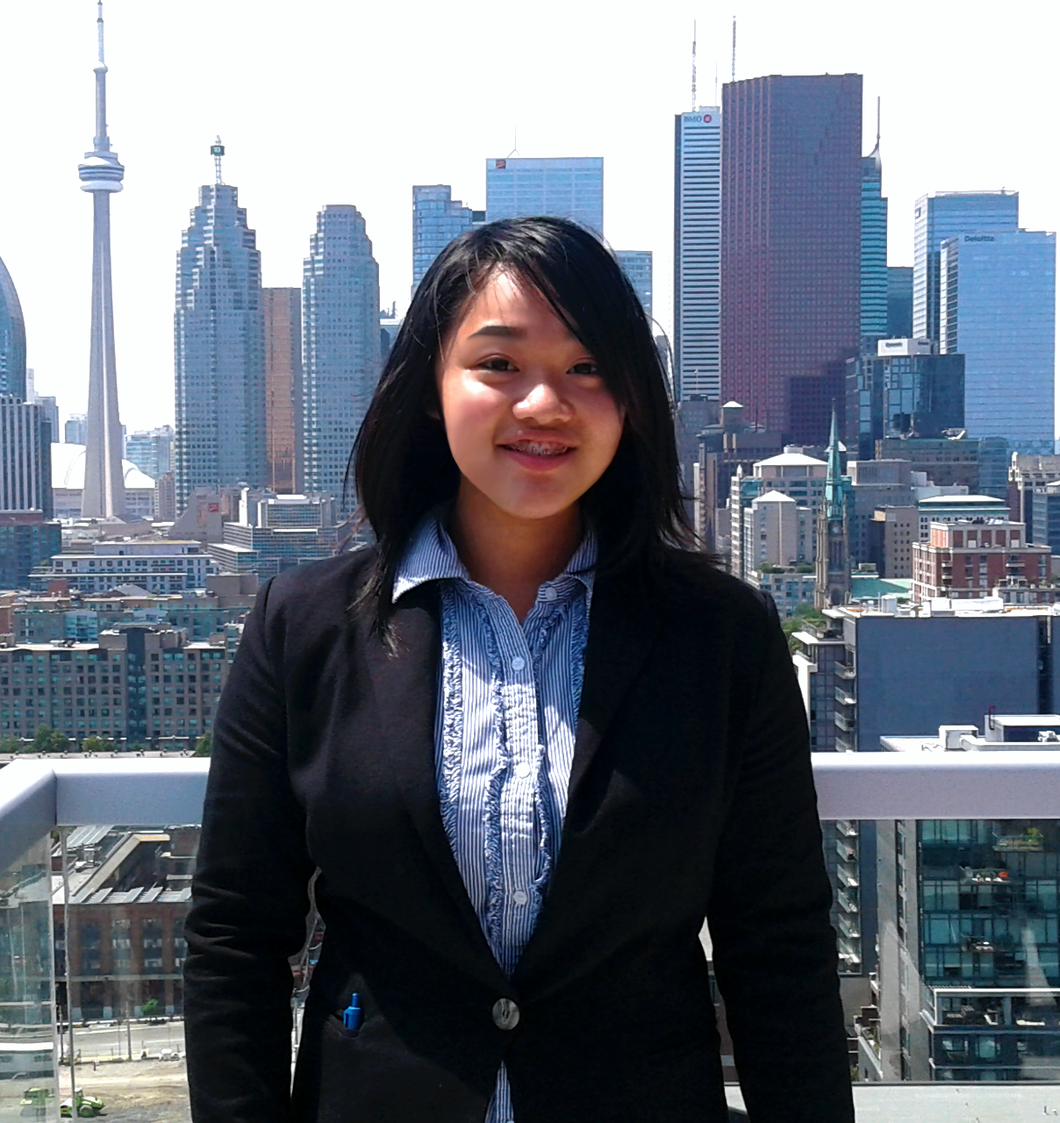
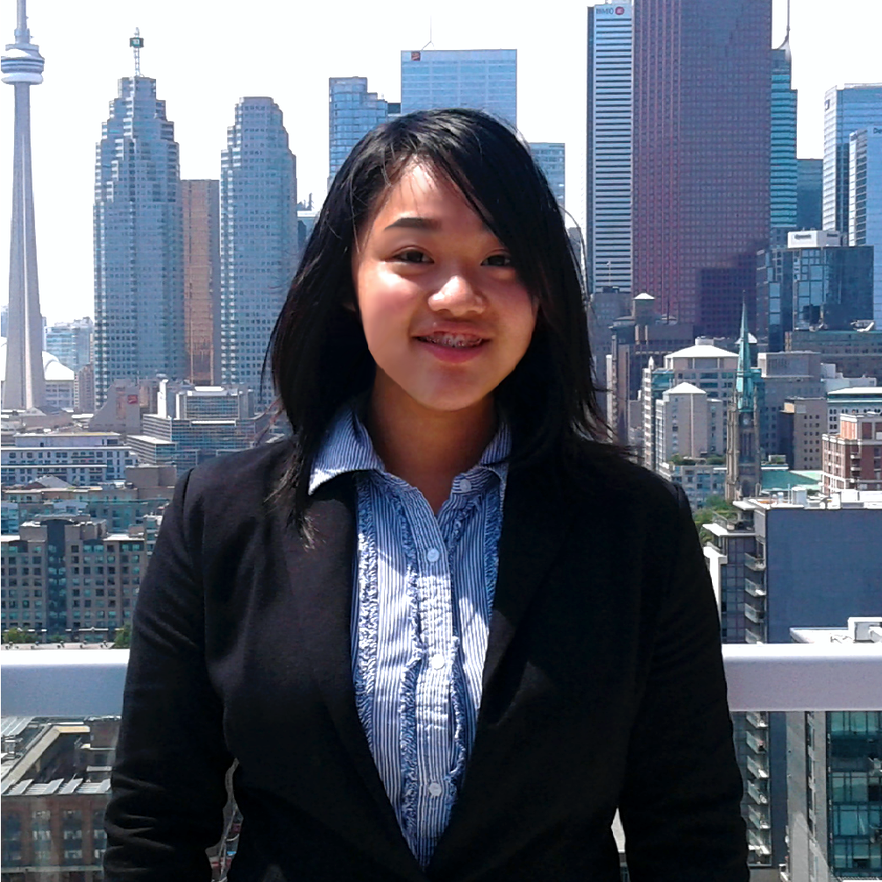
fixed navbar and added team photos

diff --git a/about-us.html b/about-us.html
@@ -70,56 +70,6 @@
       </div>
     </div>
   </nav>
-  <nav class="navbar navbar-expand-md fixed-top bg-light navbar-light">
-    <div class="container">
-      <a href="index.html" class="navbar-brand d-flex align-items-center"><img class="img-fluid inline w-10 w-25" src="assets/logo.jpg" style="	max-width: 9em;	border-top-left-radius: 10px;	border-bottom-left-radius: 10px;	border-top-right-radius: 10px;	border-bottom-right-radius: 10px;"></a>
-      <button class="navbar-toggler navbar-toggler-right" type="button" data-toggle="collapse" data-target="#navbar3SupportedContent" aria-controls="navbar3SupportedContent" aria-expanded="false" aria-label="Toggle navigation" style=""> <span class="navbar-toggler-icon"></span> </button>
-      <div class="collapse navbar-collapse text-center justify-content-center" id="navbar3SupportedContent">
-        <ul class="navbar-nav text-dark" style="">
-          <li class="nav-item mx-3">
-            <a class="nav-link" href="index.html"><b class="text-muted">Home</b></a>
-          </li>
-          <li class="nav-item mx-2">
-            <a class="nav-link" href="writing-contest.html"><b class="text-muted">Writing Contest</b></a>
-          </li>
-          <li class="nav-item mx-2">
-            <a class="nav-link" href="webinar-series.html"><b class="text-muted">Webinar Series</b></a>
-          </li>
-          <li class="nav-item mx-2">
-            <a class="nav-link" href="about-us.html"><b class="text-primary">About Us</b></a>
-          </li>
-          <li class="nav-item mx-2">
-            <a class="nav-link" href="contact.html"><b class="text-muted">Contact</b></a>
-          </li>
-        </ul>
-      </div>
-    </div>
-  </nav>
-  <nav class="navbar navbar-expand-md fixed-top bg-light navbar-light">
-    <div class="container">
-      <a href="index.html" class="navbar-brand d-flex align-items-center"><img class="img-fluid inline w-10 w-25" src="assets/logo.jpg" style="	max-width: 9em;	border-top-left-radius: 10px;	border-bottom-left-radius: 10px;	border-top-right-radius: 10px;	border-bottom-right-radius: 10px;"></a>
-      <button class="navbar-toggler navbar-toggler-right" type="button" data-toggle="collapse" data-target="#navbar3SupportedContent" aria-controls="navbar3SupportedContent" aria-expanded="false" aria-label="Toggle navigation" style=""> <span class="navbar-toggler-icon"></span> </button>
-      <div class="collapse navbar-collapse text-center justify-content-center" id="navbar3SupportedContent">
-        <ul class="navbar-nav text-dark" style="">
-          <li class="nav-item mx-3">
-            <a class="nav-link" href="index.html"><b class="text-muted">Home</b></a>
-          </li>
-          <li class="nav-item mx-2">
-            <a class="nav-link" href="writing-contest.html"><b class="text-muted">Writing Contest</b></a>
-          </li>
-          <li class="nav-item mx-2">
-            <a class="nav-link" href="webinar-series.html"><b class="text-muted">Webinar Series</b></a>
-          </li>
-          <li class="nav-item mx-2">
-            <a class="nav-link" href="about-us.html"><b class="text-primary">About Us</b></a>
-          </li>
-          <li class="nav-item mx-2">
-            <a class="nav-link" href="contact.html"><b class="text-muted">Contact</b></a>
-          </li>
-        </ul>
-      </div>
-    </div>
-  </nav>
   <div class="py-5 text-center" style="background-image: url(&quot;assets/butterfly-background.png&quot;); background-position: left top; background-size: 100%; background-repeat: repeat;">
     <div class="container">
       <div class="row">
@@ -128,68 +78,68 @@
         </div>
       </div>
       <div class="row mt-4">
-        <div class="mx-auto col-6 col-md-3 p-3 w3-animate-opacity rounded" style="	background-image: linear-gradient(to bottom, rgba(240, 240, 240, 2), rgba(240, 240, 240, 1));	background-position: top left;	background-size: 100%;	background-repeat: repeat;	box-shadow: 2px 2px 2px 2px grey;"> <img class="img-fluid d-block mb-3 mx-auto rounded-circle" src="assets/logo.jpg" width="200">
+        <div class="mx-auto col-6 col-md-3 p-3 w3-animate-opacity rounded" style="	background-image: linear-gradient(to bottom, rgba(240, 240, 240, 2), rgba(240, 240, 240, 1));	background-position: top left;	background-size: 100%;	background-repeat: repeat;	box-shadow: 2px 2px 2px 2px grey;"> <img class="img-fluid d-block mb-3 mx-auto rounded-circle" src="assets/logo.jpg" width="200" height="200">
           <h4>Athena Zhuang</h4>
           <p class="mb-3">CEO</p>
           <p class="mb-0">Socials</p>
         </div>
-        <div class="mx-auto col-6 col-md-3 p-3 w3-animate-opacity rounded" style="	background-image: linear-gradient(to bottom, rgba(240, 240, 240, 2), rgba(240, 240, 240, 1));	background-position: top left;	background-size: 100%;	background-repeat: repeat;	box-shadow: 2px 2px 2px 2px grey;"> <img class="img-fluid d-block mb-3 mx-auto rounded-circle" src="assets/logo.jpg" width="200">
+        <div class="mx-auto col-6 col-md-3 p-3 w3-animate-opacity rounded" style="	background-image: linear-gradient(to bottom, rgba(240, 240, 240, 2), rgba(240, 240, 240, 1));	background-position: top left;	background-size: 100%;	background-repeat: repeat;	box-shadow: 2px 2px 2px 2px grey;"> <img class="img-fluid d-block mb-3 mx-auto rounded-circle" src="assets/jack.jpg" width="200" height="200">
           <h4>Jack Zhu</h4>
           <p class="mb-3">COO</p>
           <p class="mb-0">Socials</p>
         </div>
-        <div class="mx-auto col-6 col-md-3 p-3 w3-animate-opacity rounded" style="	background-image: linear-gradient(to bottom, rgba(240, 240, 240, 2), rgba(240, 240, 240, 1));	background-position: top left;	background-size: 100%;	background-repeat: repeat;	box-shadow: 2px 2px 2px 2px grey;"> <img class="img-fluid d-block mb-3 mx-auto rounded-circle" src="assets/logo.jpg" width="200">
+        <div class="mx-auto col-6 col-md-3 p-3 w3-animate-opacity rounded" style="	background-image: linear-gradient(to bottom, rgba(240, 240, 240, 2), rgba(240, 240, 240, 1));	background-position: top left;	background-size: 100%;	background-repeat: repeat;	box-shadow: 2px 2px 2px 2px grey;"> <img class="img-fluid d-block mb-3 mx-auto rounded-circle" src="assets/tony.jpg" width="200" height="200">
           <h4>Tony Wu</h4>
           <p class="mb-3">Head Consultant</p>
           <p class="mb-0"> Socials</p>
         </div>
       </div>
       <div class="row mt-4">
-        <div class="mx-auto col-6 col-md-3 p-3 w3-animate-opacity rounded" style="	background-image: linear-gradient(to bottom, rgba(240, 240, 240, 2), rgba(240, 240, 240, 1));	background-position: top left;	background-size: 100%;	background-repeat: repeat;	box-shadow: 2px 2px 2px 2px grey;"> <img class="img-fluid d-block mb-3 mx-auto rounded-circle" src="assets/logo.jpg" width="200">
+        <div class="mx-auto col-6 col-md-3 p-3 w3-animate-opacity rounded" style="background-image: linear-gradient(to bottom, rgba(240, 240, 240, 2), rgba(240, 240, 240, 1));	background-position: top left;	background-repeat: repeat;	box-shadow: 2px 2px 2px 2px grey;"> <img class="img-fluid d-block mb-3 mx-auto rounded-circle" src="assets/rickie.jpg" width="200" style="">
           <h4><b>Rickie Huang</b></h4>
           <p class="mb-3">CFO</p>
           <p class="mb-0">Socials</p>
         </div>
-        <div class="mx-auto col-6 col-md-3 p-3 w3-animate-opacity rounded" style="	background-image: linear-gradient(to bottom, rgba(240, 240, 240, 2), rgba(240, 240, 240, 1));	background-position: top left;	background-size: 100%;	background-repeat: repeat;	box-shadow: 2px 2px 2px 2px grey;"> <img class="img-fluid d-block mb-3 mx-auto rounded-circle" src="assets/logo.jpg" width="200">
+        <div class="mx-auto col-6 col-md-3 p-3 w3-animate-opacity rounded" style="	background-image: linear-gradient(to bottom, rgba(240, 240, 240, 2), rgba(240, 240, 240, 1));	background-position: top left;	background-size: 100%;	background-repeat: repeat;	box-shadow: 2px 2px 2px 2px grey;"> <img class="img-fluid d-block mb-3 mx-auto rounded-circle" src="assets/elaine.jpg" width="200" height="200">
           <h4><b>Elaine Jiang</b></h4>
           <p class="mb-3">Secretary</p>
           <p class="mb-0">Socials</p>
         </div>
-        <div class="mx-auto col-6 col-md-3 p-3 w3-animate-opacity rounded" style="	background-image: linear-gradient(to bottom, rgba(240, 240, 240, 2), rgba(240, 240, 240, 1));	background-position: top left;	background-size: 100%;	background-repeat: repeat;	box-shadow: 2px 2px 2px 2px grey;"> <img class="img-fluid d-block mb-3 mx-auto rounded-circle" src="assets/logo.jpg" width="200">
+        <div class="mx-auto col-6 col-md-3 p-3 w3-animate-opacity rounded" style="	background-image: linear-gradient(to bottom, rgba(240, 240, 240, 2), rgba(240, 240, 240, 1));	background-position: top left;	background-size: 100%;	background-repeat: repeat;	box-shadow: 2px 2px 2px 2px grey;"> <img class="img-fluid d-block mb-3 mx-auto rounded-circle" src="assets/logo.jpg" width="200" height="200">
           <h4><b>Caleb Smolenaars</b></h4>
           <p class="mb-3">Ethics Officer</p>
           <p class="mb-0"> Socials</p>
         </div>
       </div>
       <div class="row mt-4">
-        <div class="mx-auto col-6 col-md-3 p-3 w3-animate-opacity rounded" style="	background-image: linear-gradient(to bottom, rgba(240, 240, 240, 2), rgba(240, 240, 240, 1));	background-position: top left;	background-size: 100%;	background-repeat: repeat;	box-shadow: 2px 2px 2px 2px grey;"> <img class="img-fluid d-block mb-3 mx-auto rounded-circle" src="assets/logo.jpg" width="200">
+        <div class="mx-auto col-6 col-md-3 p-3 w3-animate-opacity rounded" style="	background-image: linear-gradient(to bottom, rgba(240, 240, 240, 2), rgba(240, 240, 240, 1));	background-position: top left;	background-size: 100%;	background-repeat: repeat;	box-shadow: 2px 2px 2px 2px grey;"> <img class="img-fluid d-block mb-3 mx-auto rounded-circle" src="assets/logo.jpg" width="200" height="200">
           <h4><b>Raihaana Rehmtulla</b></h4>
           <p class="mb-3">HR Manager</p>
           <p class="mb-0">Socials</p>
         </div>
-        <div class="mx-auto col-6 col-md-3 p-3 w3-animate-opacity rounded" style="	background-image: linear-gradient(to bottom, rgba(240, 240, 240, 2), rgba(240, 240, 240, 1));	background-position: top left;	background-size: 100%;	background-repeat: repeat;	box-shadow: 2px 2px 2px 2px grey;"> <img class="img-fluid d-block mb-3 mx-auto rounded-circle" src="assets/logo.jpg" width="200">
+        <div class="mx-auto col-6 col-md-3 p-3 w3-animate-opacity rounded" style="	background-image: linear-gradient(to bottom, rgba(240, 240, 240, 2), rgba(240, 240, 240, 1));	background-position: top left;	background-size: 100%;	background-repeat: repeat;	box-shadow: 2px 2px 2px 2px grey;"> <img class="img-fluid d-block mb-3 mx-auto rounded-circle" src="assets/logo.jpg" width="200" height="200">
           <h4><b>Amanda Chang</b></h4>
           <p class="mb-3">Marketing Manager</p>
           <p class="mb-0">Socials</p>
         </div>
-        <div class="mx-auto col-6 col-md-3 p-3 w3-animate-opacity rounded" style="	background-image: linear-gradient(to bottom, rgba(240, 240, 240, 2), rgba(240, 240, 240, 1));	background-position: top left;	background-size: 100%;	background-repeat: repeat;	box-shadow: 2px 2px 2px 2px grey;"> <img class="img-fluid d-block mb-3 mx-auto rounded-circle" src="assets/logo.jpg" width="200">
+        <div class="mx-auto col-6 col-md-3 p-3 w3-animate-opacity rounded" style="	background-image: linear-gradient(to bottom, rgba(240, 240, 240, 2), rgba(240, 240, 240, 1));	background-position: top left;	background-size: 100%;	background-repeat: repeat;	box-shadow: 2px 2px 2px 2px grey;"> <img class="img-fluid d-block mb-3 mx-auto rounded-circle" src="assets/logo.jpg" width="200" height="200">
           <h4 contenteditable="true"><b>Angaran Nithiyanandan</b></h4>
           <p class="mb-3">PR Manager</p>
           <p class="mb-0"> Socials</p>
         </div>
       </div>
       <div class="row mt-4">
-        <div class="mx-auto col-6 col-md-3 p-3 w3-animate-opacity rounded" style="	background-image: linear-gradient(to bottom, rgba(240, 240, 240, 2), rgba(240, 240, 240, 1));	background-position: top left;	background-size: 100%;	background-repeat: repeat;	box-shadow: 2px 2px 2px 2px grey;"> <img class="img-fluid d-block mb-3 mx-auto rounded-circle" src="assets/logo.jpg" width="200">
+        <div class="mx-auto col-6 col-md-3 p-3 w3-animate-opacity rounded" style="	background-image: linear-gradient(to bottom, rgba(240, 240, 240, 2), rgba(240, 240, 240, 1));	background-position: top left;	background-size: 100%;	background-repeat: repeat;	box-shadow: 2px 2px 2px 2px grey;"> <img class="img-fluid d-block mb-3 mx-auto rounded-circle" src="assets/logo.jpg" width="200" height="200">  
           <h4><b>Paul Zhang</b></h4>
           <p class="mb-3">Partnerships Manager</p>
           <p class="mb-0" contenteditable="true">Socials</p>
         </div>
-        <div class="mx-auto col-6 col-md-3 p-3 w3-animate-opacity rounded" style="	background-image: linear-gradient(to bottom, rgba(240, 240, 240, 2), rgba(240, 240, 240, 1));	background-position: top left;	background-size: 100%;	background-repeat: repeat;	box-shadow: 2px 2px 2px 2px grey;"> <img class="img-fluid d-block mb-3 mx-auto rounded-circle" src="assets/logo.jpg" width="200">
+        <div class="mx-auto col-6 col-md-3 p-3 w3-animate-opacity rounded" style="	background-image: linear-gradient(to bottom, rgba(240, 240, 240, 2), rgba(240, 240, 240, 1));	background-position: top left;	background-size: 100%;	background-repeat: repeat;	box-shadow: 2px 2px 2px 2px grey;"> <img class="img-fluid d-block mb-3 mx-auto rounded-circle" src="assets/sammie.jpg" width="200" height="200">
           <h4 contenteditable="true"><b>Sammie He</b></h4>
           <p class="mb-3">Graphic Designer</p>
           <p class="mb-0">Socials</p>
         </div>
-        <div class="mx-auto col-6 col-md-3 p-3 w3-animate-opacity rounded" style="	background-image: linear-gradient(to bottom, rgba(240, 240, 240, 2), rgba(240, 240, 240, 1));	background-position: top left;	background-size: 100%;	background-repeat: repeat;	box-shadow: 2px 2px 2px 2px grey;"> <img class="img-fluid d-block mb-3 mx-auto rounded-circle" src="assets/logo.jpg" width="200">
+        <div class="mx-auto col-6 col-md-3 p-3 w3-animate-opacity rounded" style="	background-image: linear-gradient(to bottom, rgba(240, 240, 240, 2), rgba(240, 240, 240, 1));	background-position: top left;	background-size: 100%;	background-repeat: repeat;	box-shadow: 2px 2px 2px 2px grey;"> <img class="img-fluid d-block mb-3 mx-auto rounded-circle" src="assets/amanda.png" width="200" height="200">
           <h4><b>Amanda Yu</b></h4>
           <p class="mb-3">Website Designer</p>
           <p class="mb-0"> Socials</p>

diff --git a/index.html b/index.html
@@ -45,12 +45,37 @@
       </div>
     </div>
   </nav>
+  <nav class="navbar navbar-expand-md fixed-top bg-light navbar-light">
+    <div class="container">
+      <a href="index.html" class="navbar-brand d-flex align-items-center"><img class="img-fluid inline w-10 w-25" src="assets/logo.jpg" style="	max-width: 9em;	border-top-left-radius: 10px;	border-bottom-left-radius: 10px;	border-top-right-radius: 10px;	border-bottom-right-radius: 10px;"></a>
+      <button class="navbar-toggler navbar-toggler-right" type="button" data-toggle="collapse" data-target="#navbar3SupportedContent" aria-controls="navbar3SupportedContent" aria-expanded="false" aria-label="Toggle navigation" style=""> <span class="navbar-toggler-icon"></span> </button>
+      <div class="collapse navbar-collapse text-center justify-content-center" id="navbar3SupportedContent">
+        <ul class="navbar-nav text-dark">
+          <li class="nav-item mx-3">
+            <a class="nav-link text-light" href="index.html"><b class="text-primary">Home</b></a>
+          </li>
+          <li class="nav-item mx-2">
+            <a class="nav-link" href="writing-contest.html"><b class="text-muted" id="nav-title">Writing Contest</b></a>
+          </li>
+          <li class="nav-item mx-2">
+            <a class="nav-link" href="webinar-series.html"><b class="text-muted " id="nav-title">Webinar Series</b></a>
+          </li>
+          <li class="nav-item mx-2">
+            <a class="nav-link" href="about-us.html"><b class="text-muted" id="nav-title">About Us</b></a>
+          </li>
+          <li class="nav-item mx-2">
+            <a class="nav-link" href="contact.html"><b class="text-muted" id="nav-title">Contact</b></a>
+          </li>
+        </ul>
+      </div>
+    </div>
+  </nav>
   <!-- Cover -->
   <div class="align-items-center d-flex cover section-aquamarine w-100 pb-3 pt-5" style="background-image: url(&quot;assets/restaurant/cover_light.jpg&quot;); opacity: 0.9;">
     <div class="container">
       <div class="row">
         <div class="col-md-12">
-          <h1 class="display-3" style="font-family: 'Merriweather';">PREPosition Org<img class="img-fluid inline w-10 w-25" src="assets/butterfly-png-29.png" style="max-width: 9em; margin-left: 40px;"></h1>
+          <h1 class="display-3" style="font-family: 'Merriweather';">PREPosition<img class="img-fluid inline w-10 w-25" src="assets/butterfly-png-29.png" style="max-width: 9em; margin-left: 40px;"></h1>
         </div>
       </div>
       <div class="row">
@@ -64,12 +89,12 @@
   <div class="py-4" style="background-image: url(&quot;assets/restaurant/cover_light_3.jpg&quot;);">
     <div class="container">
       <div class="row my-5 bg-primary">
-        <div class="bg-secondary col-md-6 h-75 px-4 pt-3">
+        <div class="bg-secondary col-md-6 h-75 px-4 pt-3 pb-4">
           <p class="m-0 mt-3 pl-1">Our story</p>
           <h1 class="pl-1 mt-1" contenteditable="true">Who We Are <img class="img-fluid inline w-7 w-25" src="assets/PREPbutterfly.PNG" style="	max-width: 50px;"></h1>
-          <p class="pl-1 my-2" style="">PREPosition is a student-run initiative that is dedicated to helping communities grow, while allowing youth to be a part of it. As a writing organization, we hope to inspire teens to develop innovative solutions for the future. This is done through a series of webinars and contests, where panels of highly-qualified professionals and university students speak about their experiences. They also judge and provide feedback for their younger peers during these events. Our objective is to raise money and increase transparency in the perspectives of different persons. Initiated by a group of student leaders, we ensure that youth are given the chances to express their ideas, while also losing ignorance. Change is coming; and we are PREPared for it. </p>
+          <p class="pl-1 my-2">PREPosition is a student-run initiative that is dedicated to helping communities grow, while allowing youth to be a part of it. As a writing organization, we hope to inspire teens to develop innovative solutions for the future. This is done through a series of webinars and contests, where panels of highly-qualified professionals and university students speak about their experiences. They also judge and provide feedback for their younger peers during these events. Our objective is to raise money and increase transparency in the perspectives of different persons. Initiated by a group of student leaders, we ensure that youth are given the chances to express their ideas, while also losing ignorance. Change is coming; and we are PREPared for it. </p>
         </div>
-        <div class="d-none d-md-block col-md-6 pr-4 bg-secondary" style="">
+        <div class="d-none d-md-block col-md-6 pr-4 bg-secondary">
           <img class="img-fluid d-block mt-5 w-100 pt-3 w3-animate-opacity" src="assets/restaurant/chef_light.jpg"> </div>
       </div>
     </div>
@@ -77,7 +102,7 @@
   <div class="text-white pb-5 pt-3" style="background-image: linear-gradient(to bottom, rgba(0, 0, 0, .75), rgba(0, 0, 0, .75)), url(https://static.pingendo.com/cover-bubble-dark.svg);  background-position: center center, center center;  background-size: cover, cover;  background-repeat: repeat, repeat;">
     <div class="container">
       <div class="row">
-        <div class="p-0 col-lg-6" style="">
+        <div class="p-0 col-lg-6 mb-2">
           <img class="img-fluid d-block mt-4 w3-animate-opacity" src="assets/covid.png">
         </div>
         <div class="p-5 d-flex flex-column justify-content-center col-lg-6">
@@ -87,7 +112,7 @@
       </div>
     </div>
   </div>
-  <div class="py-5 bg-light" style="">
+  <div class="py-5 bg-light">
     <div class="container">
       <div class="row">
         <div class="col-md-12">

diff --git a/contact.html b/contact.html
@@ -45,6 +45,31 @@
       </div>
     </div>
   </nav>
+  <nav class="navbar navbar-expand-md fixed-top bg-light navbar-light">
+    <div class="container">
+      <a href="index.html" class="navbar-brand d-flex align-items-center"><img class="img-fluid inline w-10 w-25" src="assets/logo.jpg" style="	max-width: 9em;	border-top-left-radius: 10px;	border-bottom-left-radius: 10px;	border-top-right-radius: 10px;	border-bottom-right-radius: 10px;"></a>
+      <button class="navbar-toggler navbar-toggler-right" type="button" data-toggle="collapse" data-target="#navbar3SupportedContent" aria-controls="navbar3SupportedContent" aria-expanded="false" aria-label="Toggle navigation" style=""> <span class="navbar-toggler-icon"></span> </button>
+      <div class="collapse navbar-collapse text-center justify-content-center" id="navbar3SupportedContent">
+        <ul class="navbar-nav text-dark" style="">
+          <li class="nav-item mx-3">
+            <a class="nav-link" href="index.html"><b class="text-muted">Home</b></a>
+          </li>
+          <li class="nav-item mx-2">
+            <a class="nav-link" href="writing-contest.html"><b class="text-muted">Writing Contest</b></a>
+          </li>
+          <li class="nav-item mx-2">
+            <a class="nav-link" href="webinar-series.html"><b class="text-muted">Webinar Series</b></a>
+          </li>
+          <li class="nav-item mx-2">
+            <a class="nav-link" href="about-us.html"><b class="text-muted">About Us</b></a>
+          </li>
+          <li class="nav-item mx-2">
+            <a class="nav-link" href="contact.html"><b class="text-primary">Contact</b></a>
+          </li>
+        </ul>
+      </div>
+    </div>
+  </nav>
   <!-- Cover -->
   <!-- Intro -->
   <!-- Gallery -->
@@ -59,16 +84,21 @@
   <div class="text-center text-white h-100" style="background-image: linear-gradient(rgba(0, 0, 0, 0.75), rgba(0, 0, 0, 0.75)), url(&quot;https://www.generationsforpeace.org/wp-content/uploads/2018/02/page-heading-background-contact-us.jpg&quot;); background-position: center center, center center; background-size: cover, cover; background-repeat: repeat, repeat;">
     <div class="container">
       <div class="row pt-5 mt-2">
-        <div class="mx-auto col-md-10" style="">
-          <h1 class="text-light mt-2 mb-3">Contact Us</h1>
+        <div class="mx-auto col-md-10">
+          <h1 class="text-light mt-4 mb-3">Contact Us</h1>
           <p class="mb-4 lead text-light">Feel free to reach out to us any time.</p>
           <form>
             <div class="form-row">
               <div class="form-group col-md-6"> <input type="text" class="form-control" id="form22" placeholder="Your Name*"> </div>
               <div class="form-group col-md-6"> <input type="email" class="form-control" id="form23" placeholder="Email*"> </div>
             </div>
-            <div class="form-group"> <input type="text" class="form-control" id="form25" placeholder="Subject"> </div>
-            <div class="form-group"> <textarea class="form-control h-25" id="form26" rows="3" placeholder="Your message"></textarea> </div> <button type="submit" class="btn btn-light text-primary border-secondary border my-4" contenteditable="true">Submit</button>
+            <div class="form-group">
+              <input type="text" class="form-control" id="form25" placeholder="Subject">
+            </div>
+            <div class="form-group">
+                <textarea class="form-control h-25" id="form26" rows="3" placeholder="Your message"></textarea>
+            </div>
+            <button type="submit" class="btn btn-light text-primary border-secondary border mt-3" contenteditable="true">Submit</button>
           </form>
         </div>
       </div>
@@ -76,7 +106,7 @@
   </div>
   <script src="https://code.jquery.com/jquery-3.3.1.min.js"></script>
   <script src="https://cdnjs.cloudflare.com/ajax/libs/popper.js/1.14.3/umd/popper.min.js" integrity="sha384-ZMP7rVo3mIykV+2+9J3UJ46jBk0WLaUAdn689aCwoqbBJiSnjAK/l8WvCWPIPm49" crossorigin="anonymous"></script>
-  <div class="text-center bg-dark pt-3" style="	transform:  translateY(-50px) ;">
+  <div class="text-center bg-dark pt-3" style="	transform:  translateY(-80px) ;">
     <div class="container">
       <div class="row">
         <div class="col-md-12 mb-2">
@@ -97,7 +127,7 @@
   <!-- JavaScript dependencies -->
   <script src="https://stackpath.bootstrapcdn.com/bootstrap/4.1.3/js/bootstrap.min.js" integrity="sha384-ChfqqxuZUCnJSK3+MXmPNIyE6ZbWh2IMqE241rYiqJxyMiZ6OW/JmZQ5stwEULTy" crossorigin="anonymous"></script>
   <!-- Script: Smooth scrolling between anchors in the same page -->
-  <script src="js/smooth-scroll.js" style=""></script>
+  <script src="js/smooth-scroll.js"></script>
  </body>
 
 </html>

diff --git a/writing-contest.html b/writing-contest.html
@@ -47,6 +47,33 @@
       </div>
     </div>
   </nav>
+  <nav class="navbar navbar-expand-md fixed-top bg-light navbar-light">
+    <div class="container">
+      <a href="index.html" class="navbar-brand d-flex align-items-center"><img class="img-fluid inline w-10 w-25" src="assets/logo.jpg" style="	max-width: 9em;	border-top-left-radius: 10px;	border-bottom-left-radius: 10px;	border-top-right-radius: 10px;	border-bottom-right-radius: 10px;"></a>
+      <button class="navbar-toggler navbar-toggler-right" type="button" data-toggle="collapse" data-target="#navbar3SupportedContent" aria-controls="navbar3SupportedContent" aria-expanded="false" aria-label="Toggle navigation" style=""> <span class="navbar-toggler-icon"></span> </button>
+      <div class="collapse navbar-collapse text-center justify-content-center" id="navbar3SupportedContent">
+        <ul class="navbar-nav text-dark" style="">
+          <ul class="navbar-nav" style="">
+            <li class="nav-item mx-3 text-primary">
+              <a class="nav-link" href="index.html"><b class="text-muted">Home</b></a>
+            </li>
+            <li class="nav-item mx-2">
+              <a class="nav-link" href="writing-contest.html"><b class="text-primary">Writing Contest</b></a>
+            </li>
+            <li class="nav-item mx-2">
+              <a class="nav-link" href="webinar-series.html"><b class="text-muted">Webinar Series</b></a>
+            </li>
+            <li class="nav-item mx-2">
+              <a class="nav-link" href="about-us.html"><b class="text-muted">About Us</b></a>
+            </li>
+            <li class="nav-item mx-2">
+              <a class="nav-link" href="contact.html"><b class="text-muted">Contact</b></a>
+            </li>
+          </ul>
+        </ul>
+      </div>
+    </div>
+  </nav>
   <!-- Cover -->
   <!-- Intro -->
   <!-- Gallery -->
@@ -62,7 +89,7 @@
     <div class="container py-5">
       <div class="row">
         <div class="col-lg-8 col-md-10 mx-auto">
-          <h1 class="mb-4 display-3 w3-animate-opacity pt-5" style="">What is the future after the coronavirus?</h1>
+          <h1 class="mb-4 display-3 w3-animate-opacity pt-5">What is the future after the coronavirus?</h1>
         </div>
       </div>
     </div>
@@ -70,7 +97,7 @@
   <div class="py-3">
     <div class="container">
       <div class="row my-4 d-flex justify-content-center">
-        <div class="d-flex flex-column justify-content-center p-3 col-lg-7" style="">
+        <div class="d-flex flex-column justify-content-center p-3 col-lg-7">
           <p class="lead mb-0 pl-1 w3-animate-opacity">This year, our theme will be on the following: what is the future after the coronavirus? (How do we rise again, and what solutions can we implement to help us get there?)<br><br>Participants are invited to write a 250-750 word essay on this subject. The pieces will be judged by a panel of credible teachers, professors, university students, business owners, government officials -- and many more. The articles will be evaluated through creativity; language articulation; etc.</p>
         </div>
         <div class="p-0 col-lg-3" style=""> <img class="img-fluid d-block w3-animate-opacity mt-5 pt-1" src="assets/PREPbutterfly.PNG"> </div>

diff --git a/webinar-series.html b/webinar-series.html
@@ -45,6 +45,31 @@
       </div>
     </div>
   </nav>
+  <nav class="navbar navbar-expand-md fixed-top bg-light navbar-light">
+    <div class="container">
+      <a href="index.html" class="navbar-brand d-flex align-items-center"><img class="img-fluid inline w-10 w-25" src="assets/logo.jpg" style="	max-width: 9em;	border-top-left-radius: 10px;	border-bottom-left-radius: 10px;	border-top-right-radius: 10px;	border-bottom-right-radius: 10px;"></a>
+      <button class="navbar-toggler navbar-toggler-right" type="button" data-toggle="collapse" data-target="#navbar3SupportedContent" aria-controls="navbar3SupportedContent" aria-expanded="false" aria-label="Toggle navigation" style=""> <span class="navbar-toggler-icon"></span> </button>
+      <div class="collapse navbar-collapse text-center justify-content-center" id="navbar3SupportedContent">
+        <ul class="navbar-nav text-dark" style="">
+          <li class="nav-item mx-3">
+            <a class="nav-link" href="index.html"><b class="text-muted">Home</b></a>
+          </li>
+          <li class="nav-item mx-2">
+            <a class="nav-link" href="writing-contest.html"><b class="text-muted">Writing Contest</b></a>
+          </li>
+          <li class="nav-item mx-2">
+            <a class="nav-link" href="webinar-series.html"><b class="text-primary">Webinar Series</b></a>
+          </li>
+          <li class="nav-item mx-2">
+            <a class="nav-link" href="about-us.html"><b class="text-muted">About Us</b></a>
+          </li>
+          <li class="nav-item mx-2">
+            <a class="nav-link" href="contact.html"><b class="text-muted">Contact</b></a>
+          </li>
+        </ul>
+      </div>
+    </div>
+  </nav>
   <!-- Cover -->
   <!-- Intro -->
   <!-- Gallery -->

diff --git a/aquamarine.scss b/aquamarine.scss
@@ -78,10 +78,6 @@ $font-weight-normal: 400;
 $font-weight-bold: 700;
 
 
-
-
-
-
 @import 'bootstrap-4.1.3';
 
 html,body {
